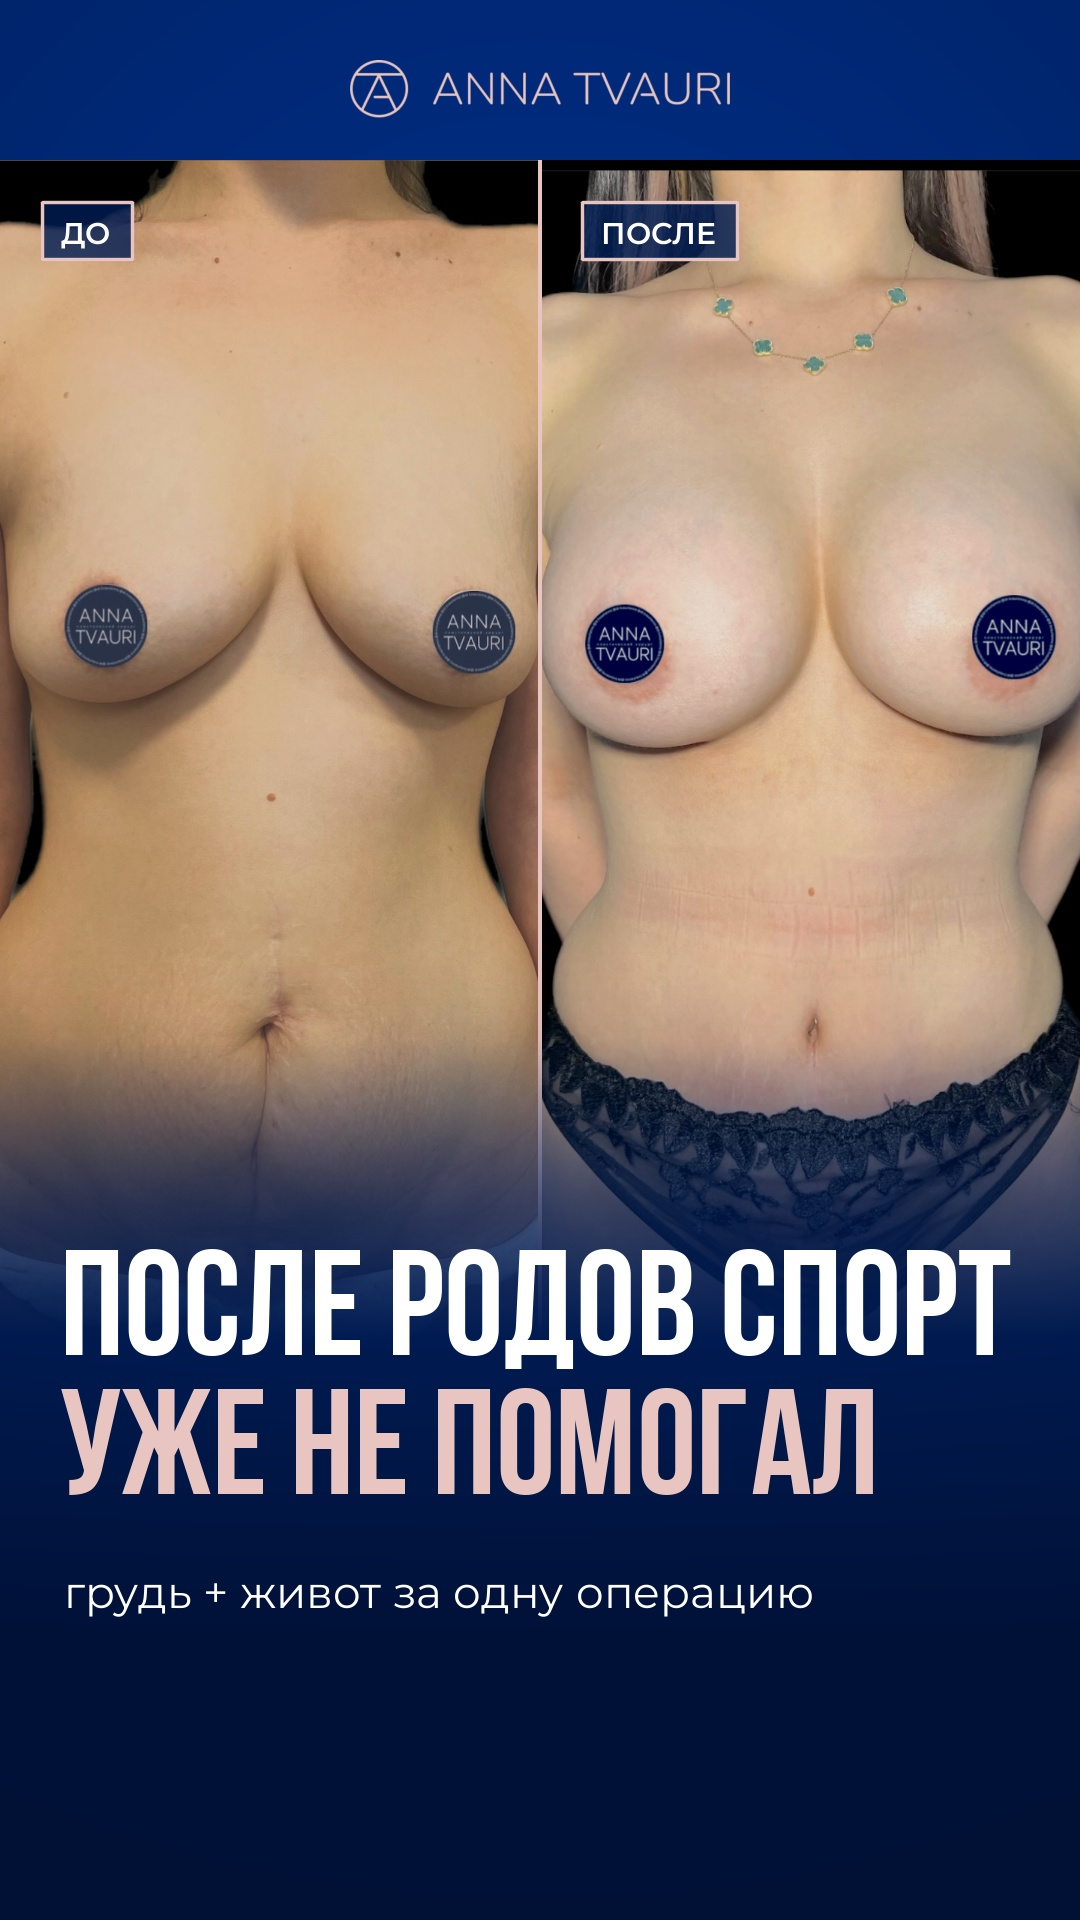
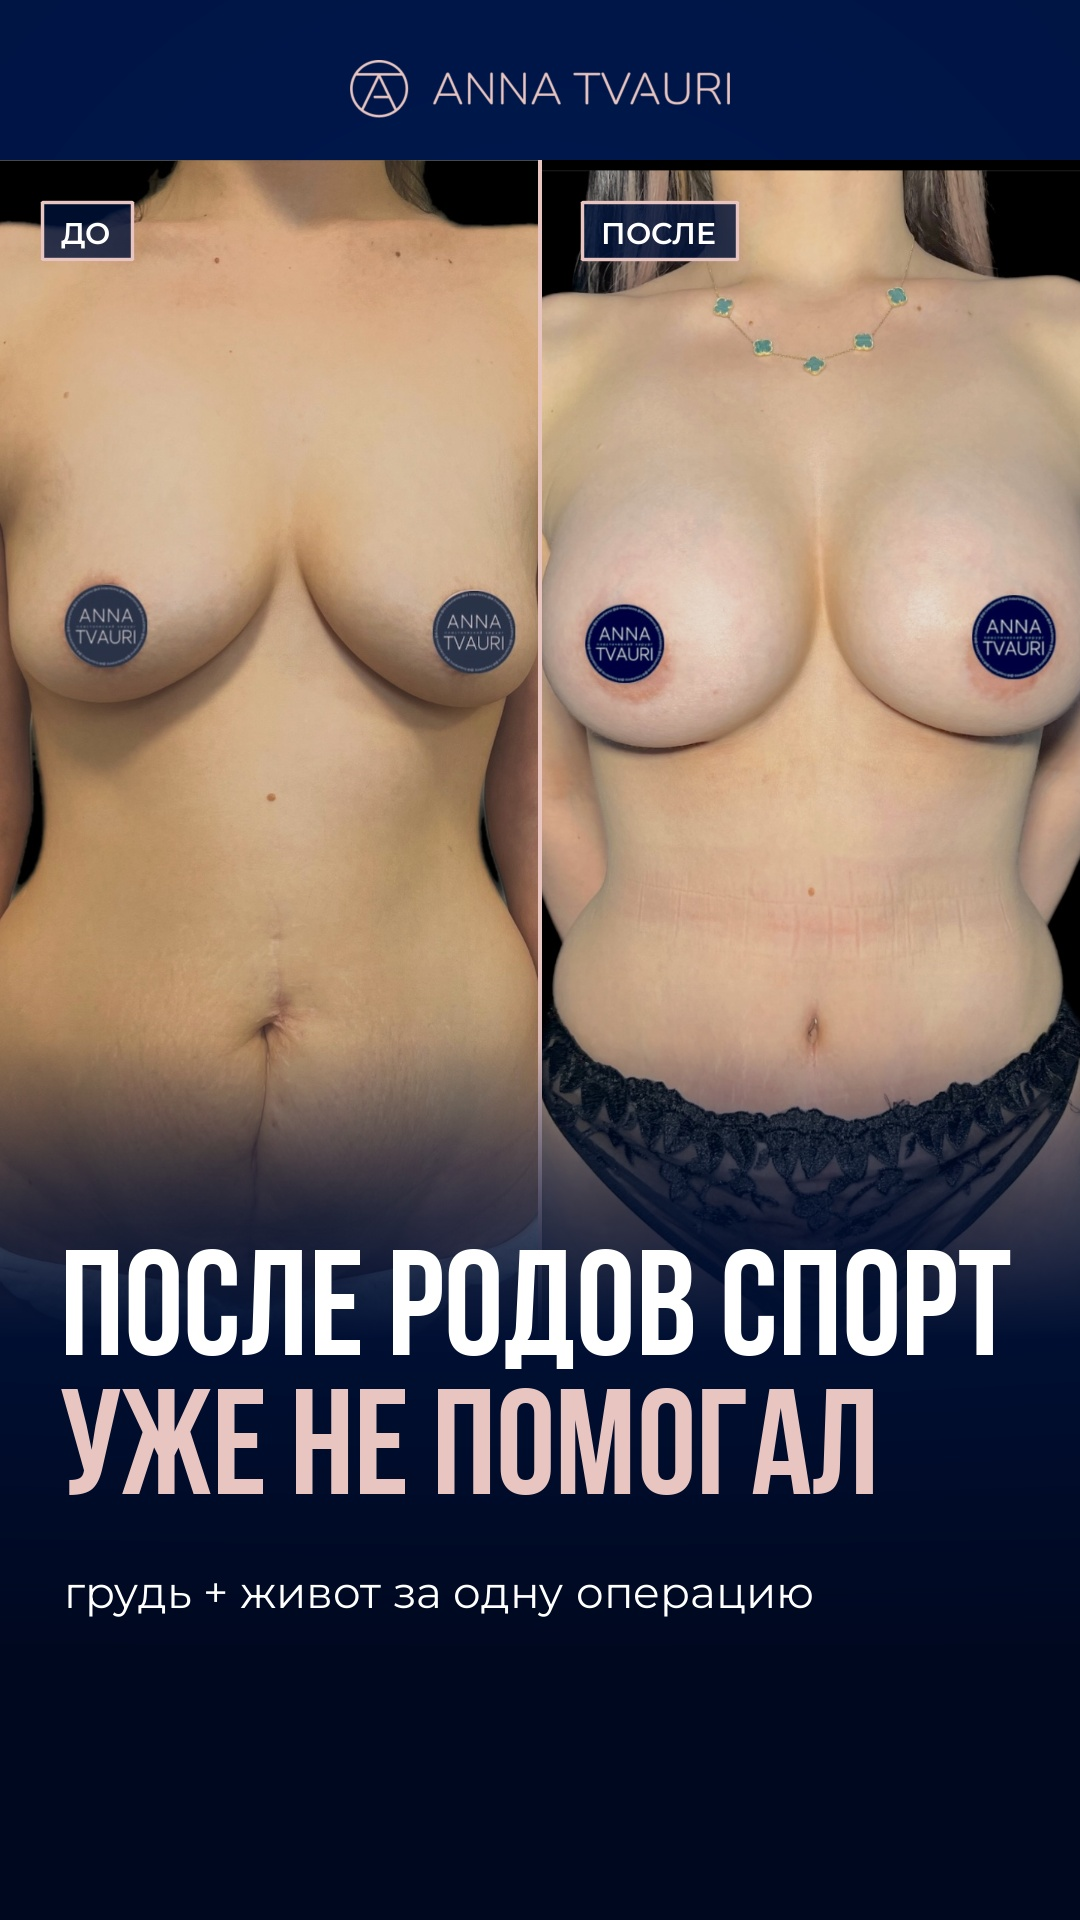
Postpartum reel: darker navy (#00123A), softer background glow
Claude-Session: https://claude.ai/code/session_01PotVFxhwJhJxfUVgu7Et5P

Changed region(s): [[0.0, 0.625, 1.0, 0.8438], [0.0, 0.0, 1.0, 0.0938]]

diff --git a/tools/reel_postpartum.py b/tools/reel_postpartum.py
@@ -23,8 +23,8 @@ SRC = os.environ.get("REEL_SRC", os.path.join(ROOT, "dl_postpartum"))
 WORK = os.path.join(SRC, "_work")
 NAME = "Reels_postpartum_breast_belly"
 W, H, FPS, SR = 1080, 1920, 30, 48000
-NAVY = np.float32([0, 29, 85]) / 255; PINK = np.float32([233, 197, 193]) / 255; WHITE = np.float32([1, 1, 1])
-DEEP = np.float32([0, 16, 52]) / 255
+NAVY = np.float32([0, 18, 58]) / 255; PINK = np.float32([233, 197, 193]) / 255; WHITE = np.float32([1, 1, 1])
+DEEP = np.float32([0, 8, 30]) / 255
 
 # ---------------- easing ----------------
 def cl(x): return min(1.0, max(0.0, x))
@@ -185,7 +185,7 @@ def cover(img, w, h, fx=0.5, fy=0.5, z=1.0):
 
 # ---------------- static layers ----------------
 yy, xx = np.mgrid[0:H, 0:W].astype(np.float32)
-BG = NAVY * (1 + 0.55 * np.exp(-(((xx - 540) / 900) ** 2 + ((yy - 520) / 900) ** 2)))[..., None] * 1.0
+BG = NAVY * (1 + 0.35 * np.exp(-(((xx - 540) / 900) ** 2 + ((yy - 520) / 900) ** 2)))[..., None] * 1.0
 BG = np.clip(BG, 0, 1).astype(np.float32)
 def ramp(y0, y1): return np.clip((yy[:, :1] - y0) / (y1 - y0), 0, 1)[..., None]
 GBOT = (ramp(950, 1650) ** 1.3 * 0.92).astype(np.float32)
